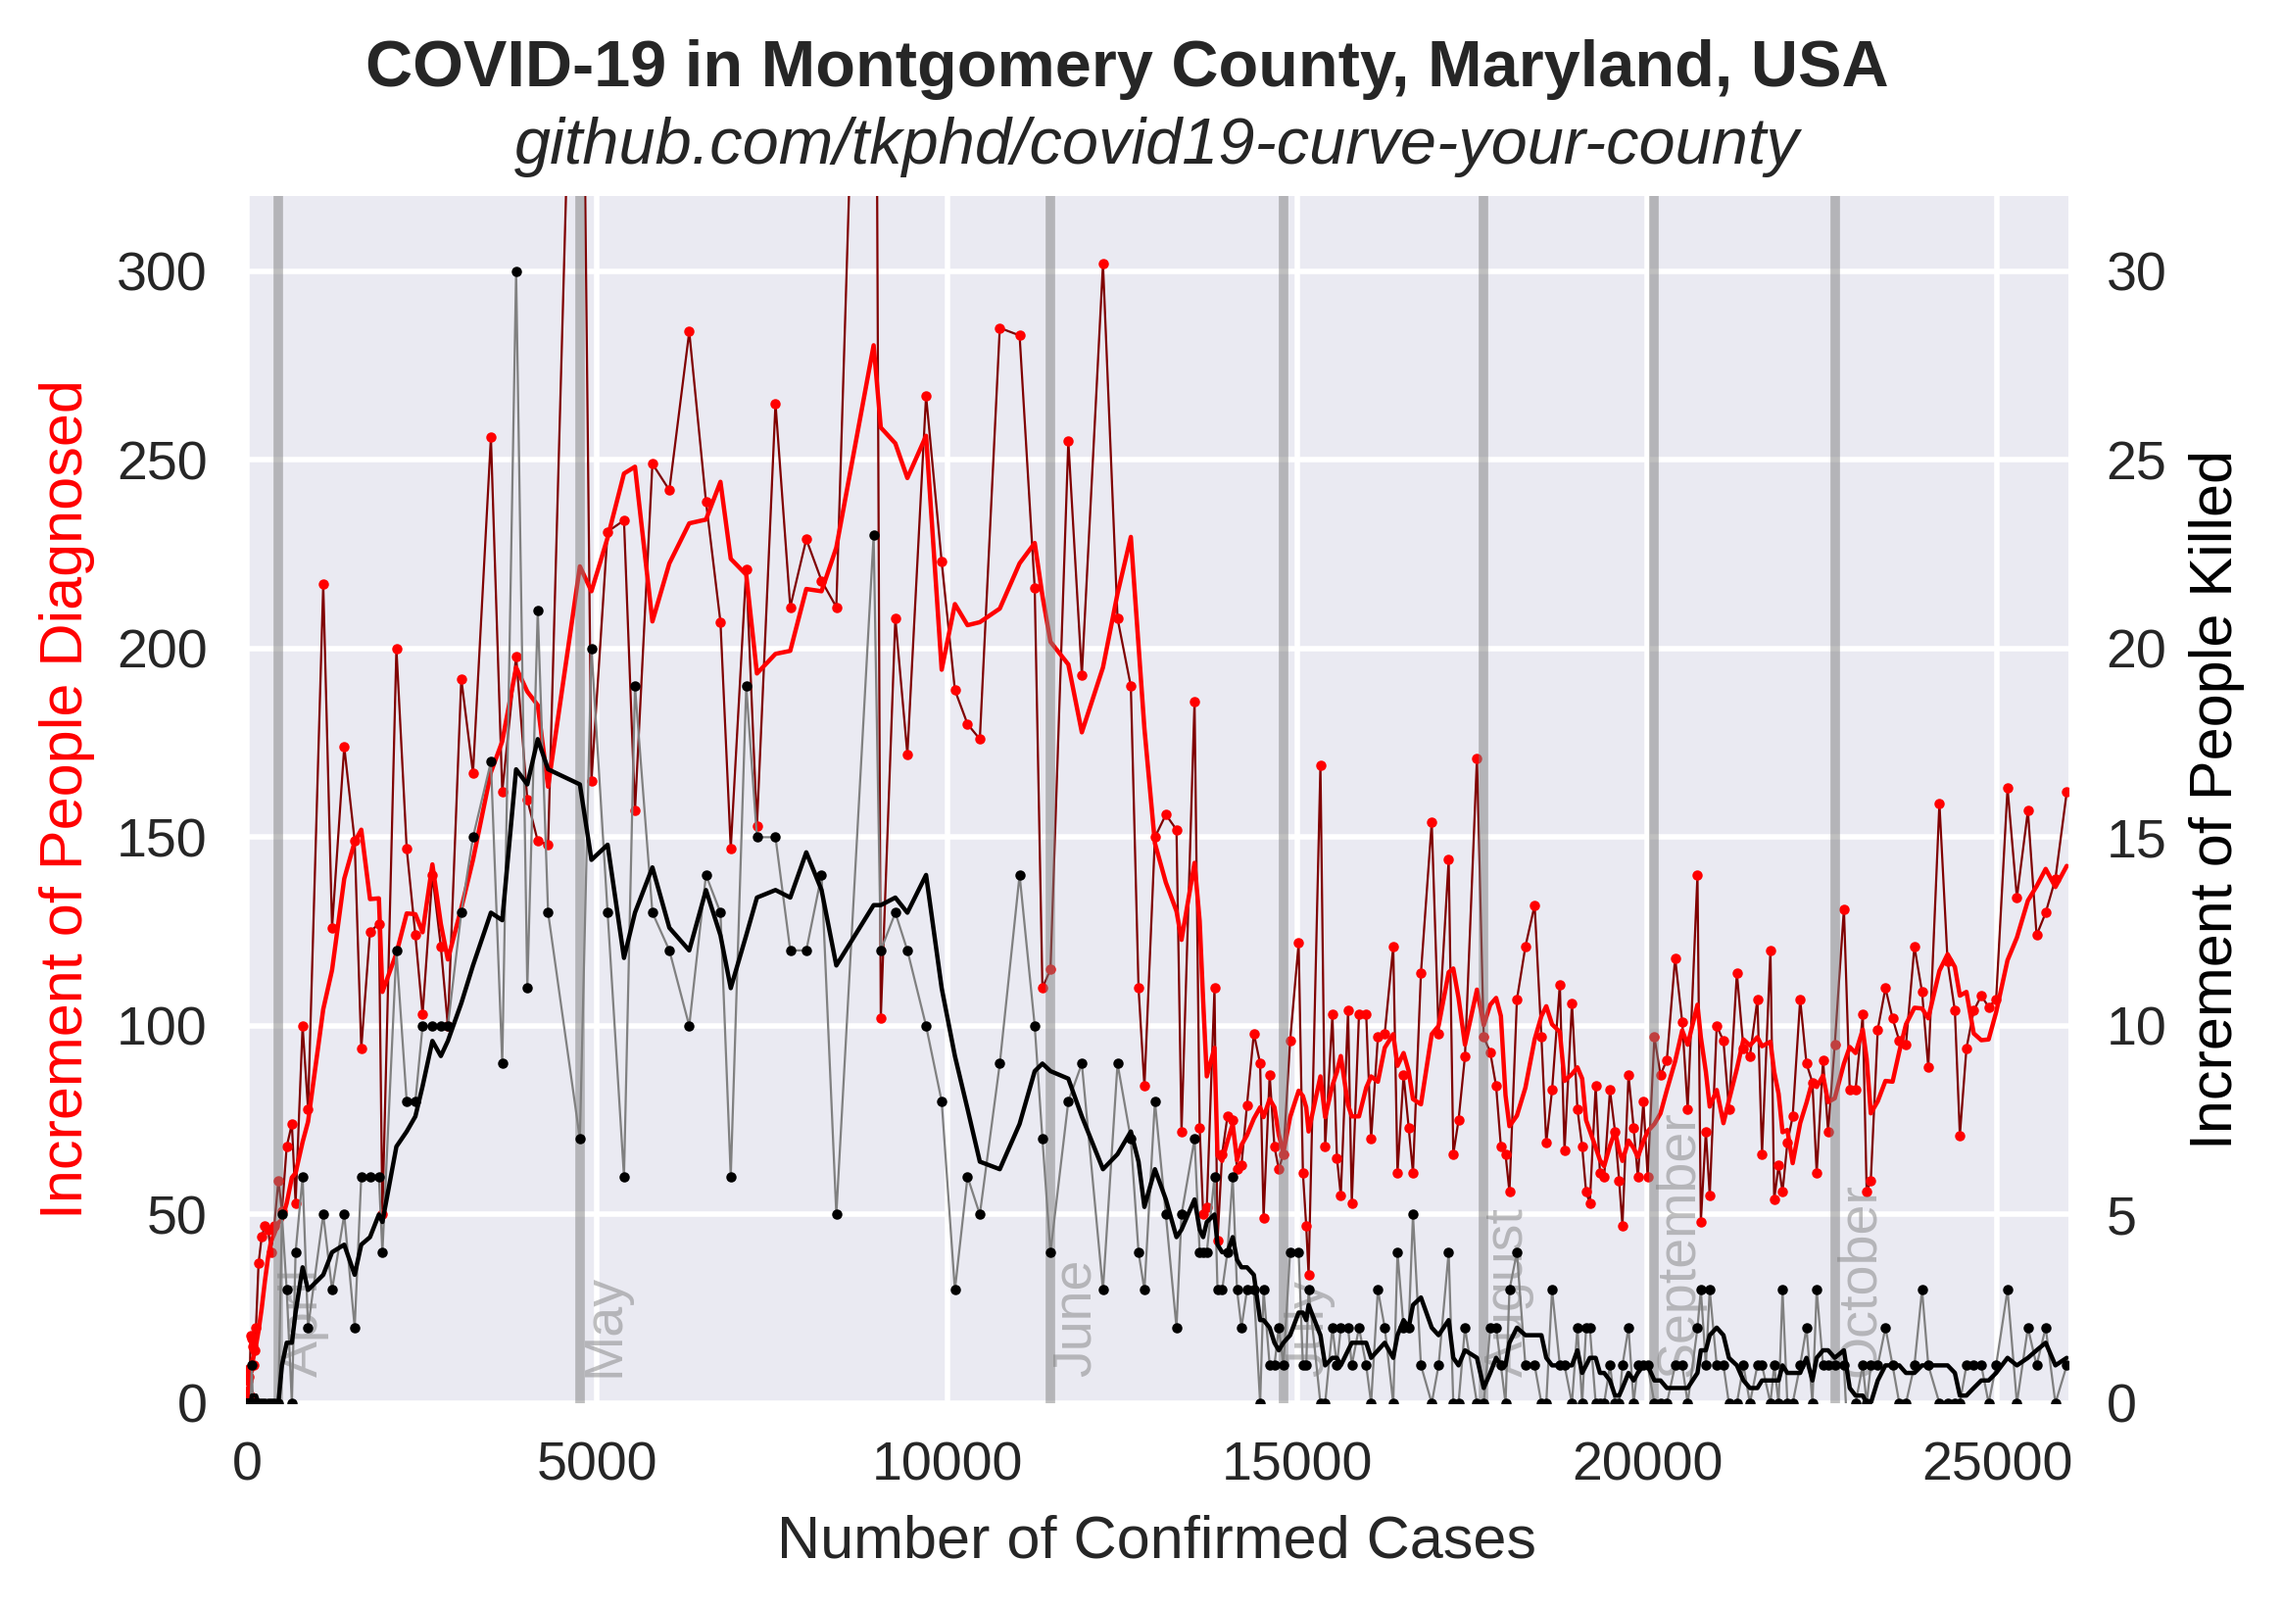
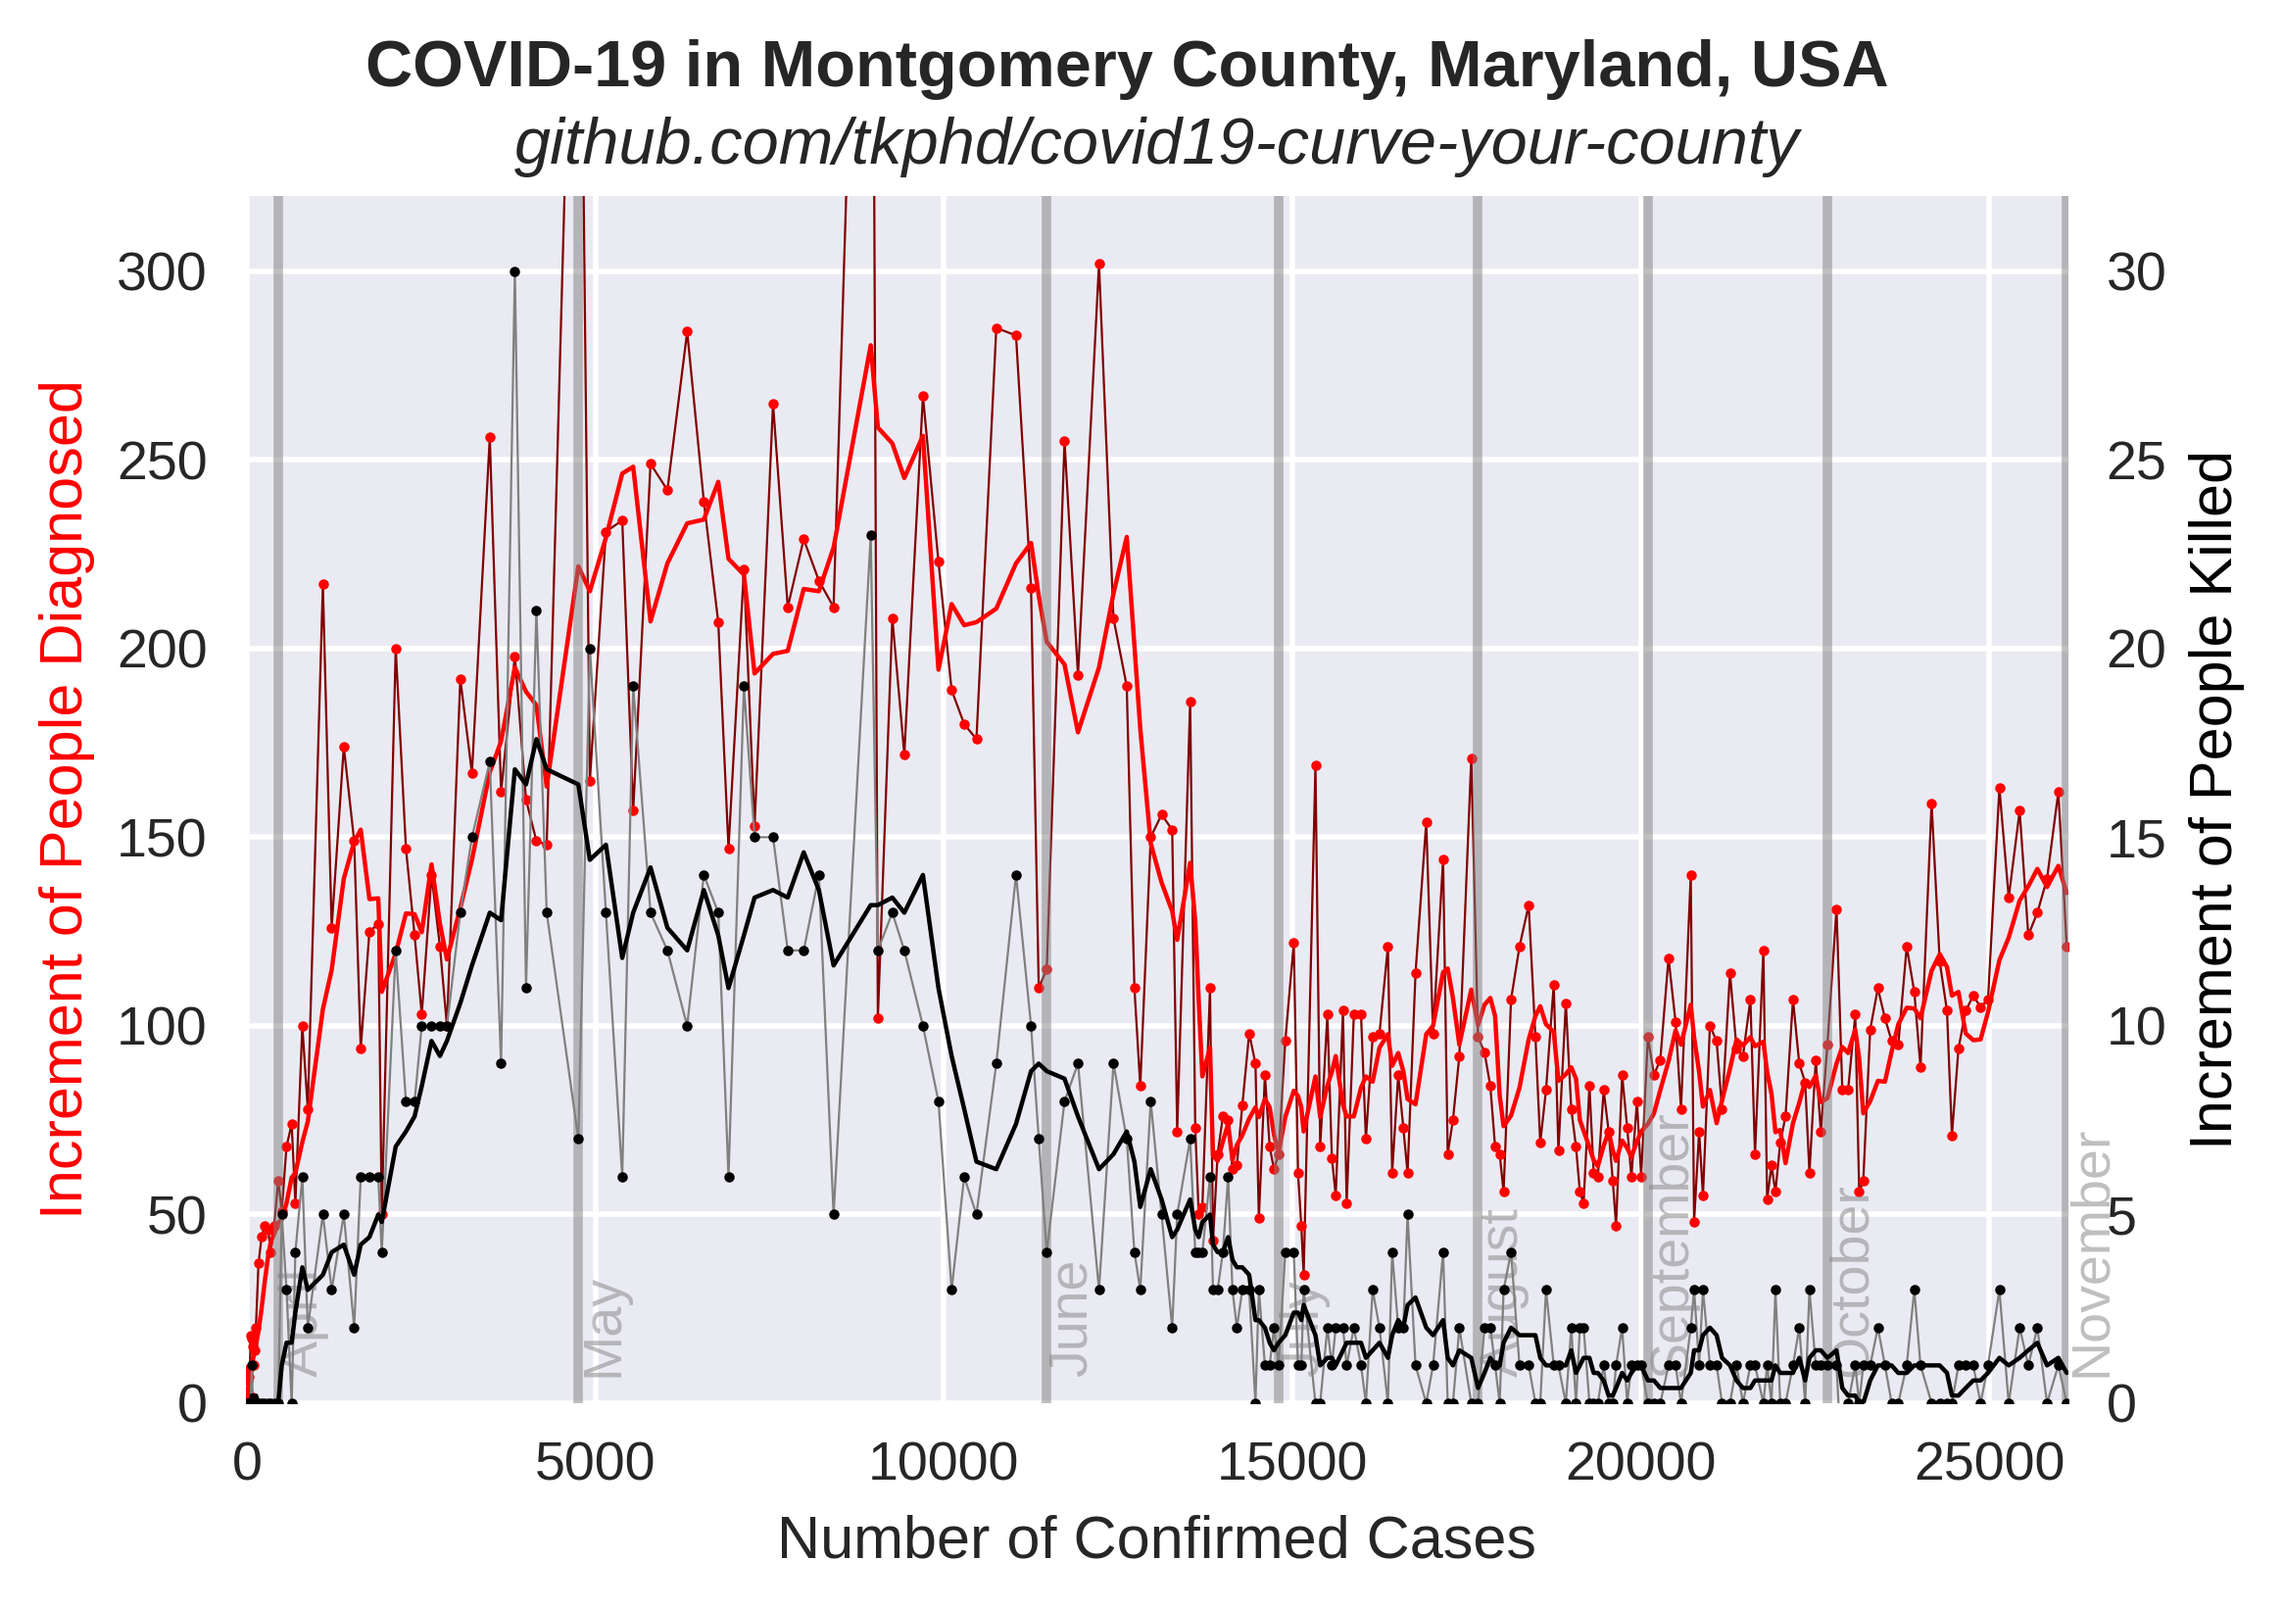
2020-11-01 update

diff --git a/exponential.py b/exponential.py
@@ -120,7 +120,7 @@ months = [
     ["August", date(2020, 8, 1).toordinal() - start],
     ["September", date(2020, 9, 1).toordinal() - start],
     ["October", date(2020, 10, 1).toordinal() - start],
-    # ["November",  date(2020, 11, 1).toordinal() - start],
+    ["November",  date(2020, 11, 1).toordinal() - start],
     # ["December",  date(2020, 12, 1).toordinal() - start]
 ]
 
